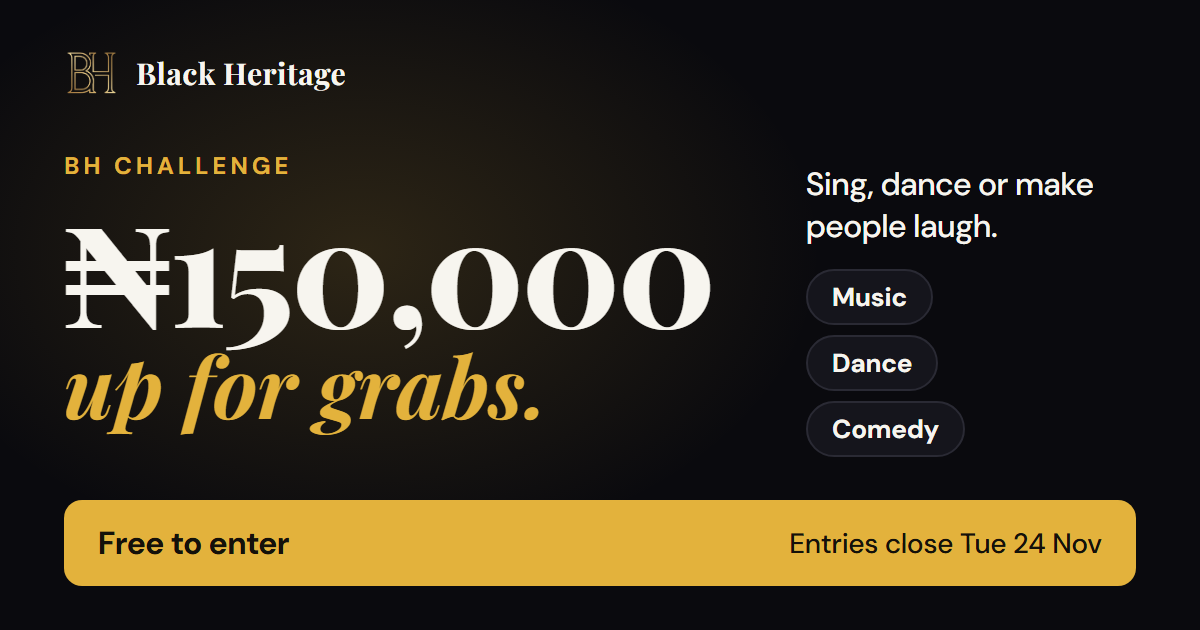
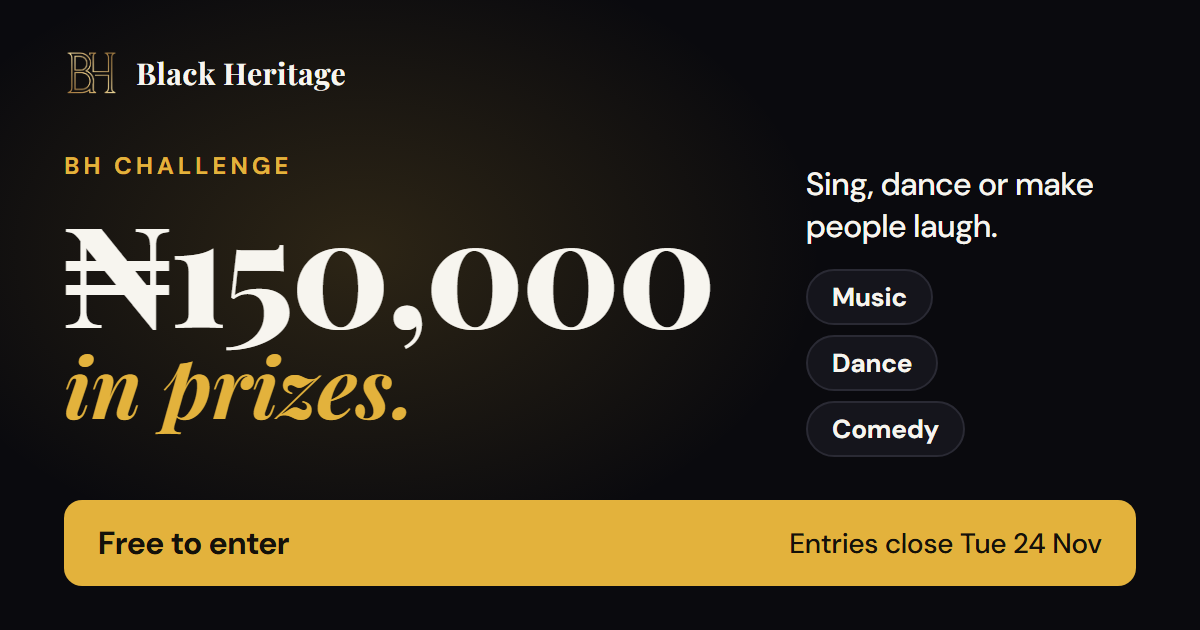
feat: clarify prize descriptions in Challenges and Links pages

Changed region(s): [[0.0617, 0.5429, 0.4625, 0.6937]]

diff --git a/server/routes.ts b/server/routes.ts
@@ -529,7 +529,7 @@ export async function registerRoutes(
     void sendProfilePageWithMeta(res, async () => {
       const base = process.env.PUBLIC_APP_URL || "https://blackhevents.com";
       const pool = `₦${(TALENT_HUNT.prizeNaira * 3).toLocaleString("en-NG")}`;
-      const title = `${TALENT_HUNT.title}: ${pool} up for grabs`;
+      const title = `${TALENT_HUNT.title}: ${pool} in prizes up for grabs`;
       const desc = `Sing, dance or make people laugh. Three winners share ${pool} and perform at the ${TALENT_HUNT.stage.title}, OAU Ile-Ife, ${TALENT_HUNT.stage.date}. Free to enter. Entries close ${TALENT_HUNT.closesOn}.`;
       return {
         title, desc, image: "/og-challenges.png", url: `${base}/challenges`, ogType: "website",

diff --git a/client/src/pages/Challenges.tsx b/client/src/pages/Challenges.tsx
@@ -173,7 +173,7 @@ export default function ChallengesPage() {
             </h1>
             <div className="rule-gold mt-3" />
             <p className="mt-3 text-sm text-muted-ink sm:text-base leading-relaxed">
-              {naira(TALENT_HUNT.prizeNaira * 3)} up for grabs for the best in Music, Dance and Comedy, and a slot on stage at the{" "}
+              {naira(TALENT_HUNT.prizeNaira * 3)} in prizes up for grabs for the best in Music, Dance and Comedy, and a slot on stage at the{" "}
               <Link href={TALENT_HUNT.stage.path} className="text-ink underline decoration-hairline underline-offset-4 hover:text-gold">
                 {TALENT_HUNT.stage.title}
               </Link>

diff --git a/client/src/pages/Links.tsx b/client/src/pages/Links.tsx
@@ -100,7 +100,7 @@ export default function LinksPage({ src }: { src?: string }) {
             >
               <Trophy className="h-5 w-5 shrink-0" aria-hidden="true" />
               <span className="min-w-0 flex-1">
-                <span className="block text-sm font-bold">{TALENT_HUNT.title}: {pool} up for grabs</span>
+                <span className="block text-sm font-bold">{TALENT_HUNT.title}: {pool} in prizes up for grabs</span>
                 <span className="block text-xs opacity-80">{challengeLine}</span>
               </span>
               <ArrowUpRight className="h-4 w-4 shrink-0" aria-hidden="true" />
